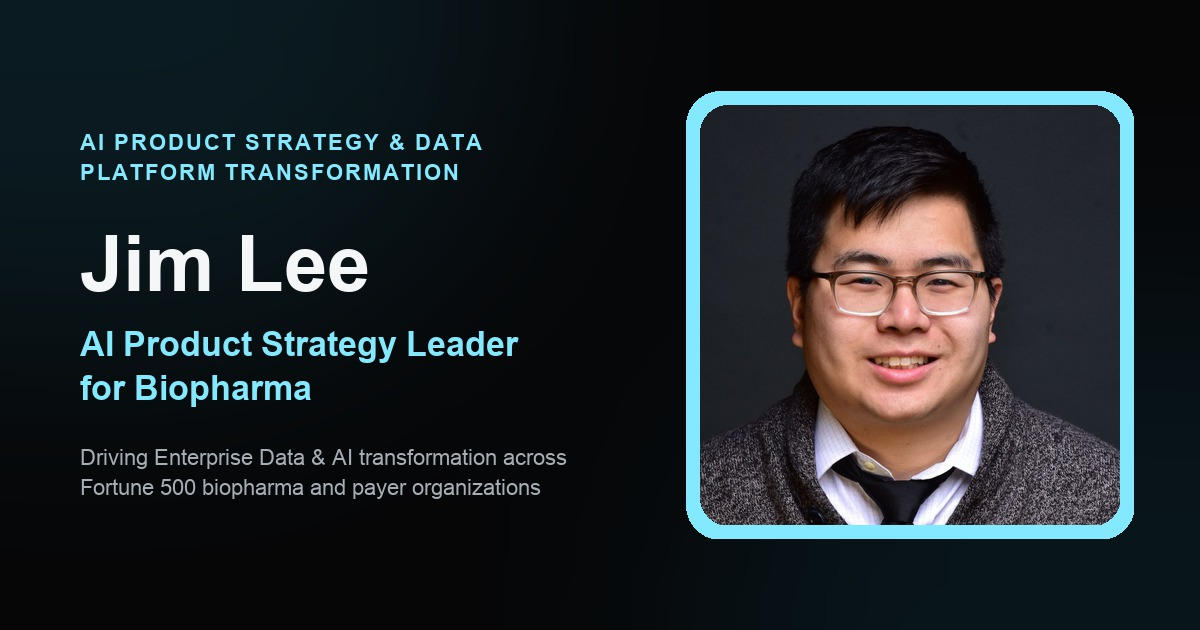
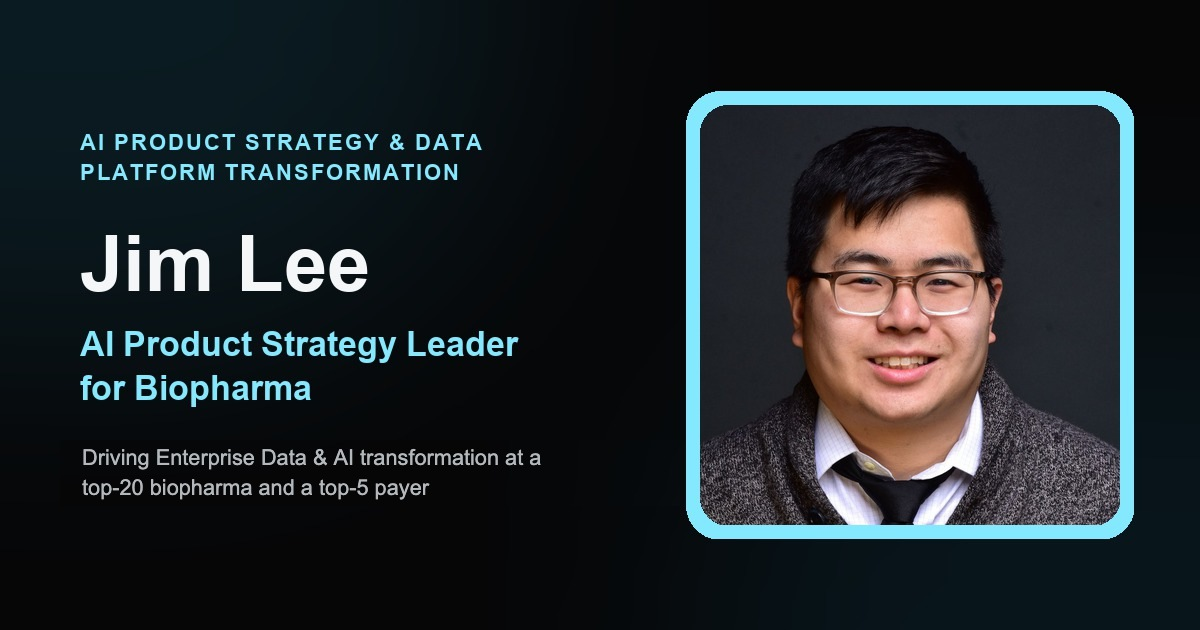
Recruiting-quality pass: accuracy, titles, accessibility, performance
Accuracy
- Hero tagline and social share card said "Fortune 500 biopharma";
  Takeda is on the Fortune Global 500, not the Fortune 500. Both now use
  the "top-20 biopharma and a top-5 payer" phrasing the Experience
  section already uses. The card was patched in place (same font, size,
  position, color), so link previews match the page.
- Removed "Zero Incidents" from the Case Study 02 diagram: the timeline
  and resume credit zero major incidents to the later Portfolio Lead
  role, not the Databricks migration.
- Timeline titles now match the downloadable resume exactly (Humana,
  Beth Israel Deaconess, Accenture), in the page and the chatbot facts.

Accessibility
- Faint gray text was 3.8:1 on cards, failing WCAG AA (4.5:1); now 5.5:1.
- Testimonials section had no heading; added one (same visual style).
- Hero contact links were 23px tall and the mobile menu button 34x28;
  both enlarged to comfortable tap targets with no visual layout change.

Performance / SEO
- Below-the-fold images lazy-load; the hero headshot loads with high
  priority.
- Added a canonical URL.

Changed region(s): [[0.0617, 0.6937, 0.4625, 0.8143]]

diff --git a/index.html b/index.html
@@ -6,6 +6,7 @@
 <title>Jim Lee — AI Product Strategy Leader</title>
 <meta name="description" content="Jim Lee — Senior AI strategy and transformation leader driving enterprise value across pharma, payer, and provider ecosystems.">
 <meta name="theme-color" content="#060607">
+<link rel="canonical" href="https://jlee1991.github.io/portfolio-site/">
 
 <meta property="og:type" content="website">
 <meta property="og:url" content="https://jlee1991.github.io/portfolio-site/">
@@ -31,7 +32,7 @@
     --cyan-dim: #4fb8d6;
     --text: #f5f6f7;
     --text-dim: #a6adb4;
-    --text-faint: #6b7178;
+    --text-faint: #858b92;
     --max: 1120px;
     --font-sans: -apple-system, BlinkMacSystemFont, "Segoe UI", Inter, Roboto, Helvetica, Arial, sans-serif;
   }
@@ -74,7 +75,7 @@
     transition:background .2s, color .2s;
   }
   .nav .cta-btn:hover{background:var(--cyan); color:#04121a;}
-  .nav-toggle{display:none; flex-direction:column; gap:5px; background:none; border:none; cursor:pointer; padding:6px;}
+  .nav-toggle{display:none; flex-direction:column; gap:5px; background:none; border:none; cursor:pointer; padding:11px 9px; margin-right:-9px;}
   .nav-toggle span{width:22px; height:2px; background:var(--text);}
   .mobile-menu{display:none;}
 
@@ -121,16 +122,16 @@
   .contact-row{display:flex; flex-direction:column; align-items:stretch; gap:12px; max-width:280px;}
   .contact-row .btn{justify-content:center;}
   .contact-card{
-    display:flex; flex-direction:column; gap:12px;
+    display:flex; flex-direction:column; gap:0;
     background:var(--bg-alt); border:1px solid var(--border); border-radius:14px;
-    padding:16px 20px;
+    padding:10px 20px;
   }
   .contact-card-title{
     font-size:0.72rem; font-weight:700; text-transform:uppercase; letter-spacing:0.1em;
     color:var(--cyan);
   }
   .contact-link{
-    display:inline-flex; align-items:center; gap:9px;
+    display:inline-flex; align-items:center; gap:9px; padding:6px 0;
     color:var(--text-dim); font-size:0.9rem; font-weight:600; transition:color .2s;
     white-space:nowrap;
   }
@@ -597,7 +598,7 @@
     <div>
       <span class="eyebrow">AI Product Strategy &amp; Data Platform Transformation</span>
       <h1><span class="name">Jim Lee</span><span class="role">AI Product Strategy Leader for Biopharma</span></h1>
-      <p class="tagline">Driving Enterprise Data &amp; AI transformation and adoption across Fortune 500 biopharma and payer organizations — delivering scalable platforms and measurable business impact.</p>
+      <p class="tagline">Driving Enterprise Data &amp; AI transformation and adoption at a top-20 biopharma and a top-5 payer — delivering scalable platforms and measurable business impact.</p>
       <div class="contact-row">
         <a class="btn btn-solid" href="assets/Jim-Lee-Resume.pdf" download>
           <svg viewBox="0 0 24 24" fill="none" stroke="currentColor" stroke-width="1.9" stroke-linecap="round" stroke-linejoin="round" aria-hidden="true"><path d="M12 3v12"/><path d="M7 10l5 5 5-5"/><path d="M4 19h16"/></svg>
@@ -626,7 +627,7 @@
     </div>
     <div class="hero-photo">
       <div class="photo-frame-wrap">
-        <div class="frame"><img src="assets/headshot.jpg" alt="Jim Lee headshot"></div>
+        <div class="frame"><img fetchpriority="high" src="assets/headshot.jpg" alt="Jim Lee headshot"></div>
         <div class="badge"><span class="num">$30M+</span><span class="lbl">AI Platform Scaled</span></div>
       </div>
       <p class="hero-photo-caption">Open to senior AI strategy leadership roles — healthcare or life sciences.</p>
@@ -675,7 +676,7 @@
           <p><span class="qmark">&ldquo;</span>I've seen healthcare across multiple points of care, from community health centers serving the homeless to Medicare patients navigating the hospital system. It's no accident I've spent over a decade building solutions in this space.</p>
           <p>The real value of healthcare AI isn't in the model — it's in improving patient outcomes by turning fragmented data into timely, actionable decisions across the care journey.<span class="qmark">&rdquo;</span></p>
           <div class="quote-author">
-            <span class="quote-avatar"><img src="assets/headshot2.jpg" alt="Jim Lee"></span>
+            <span class="quote-avatar"><img loading="lazy" decoding="async" src="assets/headshot2.jpg" alt="Jim Lee"></span>
             <div>
               <strong>Jim Lee</strong>
               <span>AI Product Strategy Leader</span>
@@ -707,7 +708,7 @@
         <p>Directed enterprise data and AI platform strategy across 8 business units, growing monthly active users from ~900 to ~2,700, leading a 20-person cross-functional team, and growing platform investment from a ~$1M pilot to a $30M+ three-year agreement.</p>
       </div>
       <div class="timeline-item">
-        <div class="role">Data Scientist</div>
+        <div class="role">Data Scientist, Cognitive/Machine Learning</div>
         <div class="company">Humana</div>
         <div class="dates">Dec 2019 – May 2022</div>
         <p>Built predictive models and Power BI dashboards to improve member experience and reduce CMS complaints, using claims and survey data across ~75K members to identify cost-saving intervention points.</p>
@@ -725,13 +726,13 @@
         <p>Implemented a population health analytics platform, integrating EHR data (Epic, NextGen, eCW) and partnering with clinical and administrative stakeholders to drive adoption and reporting.</p>
       </div>
       <div class="timeline-item">
-        <div class="role">Data Analyst</div>
+        <div class="role">Data Analyst, Care Coordination Strategy</div>
         <div class="company">Beth Israel Deaconess Medical Center</div>
         <div class="dates">Sep 2014 – Oct 2016</div>
         <p>Designed a referral tracking system and reporting tools, delivering analytics to executive leadership (CEO, COO, CMO) that improved patient retention and reduced out-of-network leakage.</p>
       </div>
       <div class="timeline-item">
-        <div class="role">Senior Analyst, Consulting</div>
+        <div class="role">Senior Analyst, Technology Consulting</div>
         <div class="company">Accenture</div>
         <div class="dates">Aug 2012 – Jul 2014</div>
         <p>Automated deployment and release processes for large-scale government and financial-sector systems, improving operational efficiency and scalability.</p>
@@ -923,7 +924,6 @@
                 <li>Databricks SaaS Migration</li>
                 <li>AWS S3 Optimization</li>
                 <li>Governance (Security / Tagging)</li>
-                <li>Zero Incidents</li>
               </ul>
             </div>
           </div>
@@ -1110,13 +1110,13 @@
 <section id="testimonials">
   <div class="wrap">
     <div class="section-head">
-      <p class="sub-head">What Colleagues Say</p>
+      <h2 class="sub-head">What Colleagues Say</h2>
     </div>
     <div class="testimonial-grid">
       <div class="testimonial-card">
         <p><span class="qmark">&ldquo;</span>Jim played an important role in bringing structure and alignment to a broad and evolving portfolio. He partnered effectively with platform and business stakeholders to prioritize initiatives, manage demand, and keep teams focused on high-impact outcomes. What stands out about Jim is his collaborative style and positive attitude — he approaches challenges with a calm, solutions-oriented mindset and consistently contributes as a strong team player.<span class="qmark">&rdquo;</span></p>
         <div class="testimonial-author">
-          <span class="testimonial-avatar"><img src="assets/testimonials/shyam.jpg" alt="Shyam J Dadala"></span>
+          <span class="testimonial-avatar"><img loading="lazy" decoding="async" src="assets/testimonials/shyam.jpg" alt="Shyam J Dadala"></span>
           <div>
             <strong><a href="https://www.linkedin.com/in/jayanthz/" target="_blank" rel="noopener noreferrer">Shyam J Dadala (Jai)</a></strong>
             <span>Data, Digital &amp; Technology Leader — Takeda</span>
@@ -1126,7 +1126,7 @@
       <div class="testimonial-card">
         <p><span class="qmark">&ldquo;</span>Jim is one of those rare leaders who combines deep technical credibility with the cross-functional instincts needed to actually move the needle at enterprise scale. He didn't just manage infrastructure — he helped shape the platform's operating model and roadmap. He is exactly the kind of manager you want leading a data platform function. I recommend him without reservation.<span class="qmark">&rdquo;</span></p>
         <div class="testimonial-author">
-          <span class="testimonial-avatar"><img src="assets/testimonials/blake.jpg" alt="Blake Xiao"></span>
+          <span class="testimonial-avatar"><img loading="lazy" decoding="async" src="assets/testimonials/blake.jpg" alt="Blake Xiao"></span>
           <div>
             <strong><a href="https://www.linkedin.com/in/blake-xiao-958948/" target="_blank" rel="noopener noreferrer">Blake Xiao</a></strong>
             <span>Data &amp; AI Architect, Eli Lilly — formerly Takeda</span>
@@ -1144,12 +1144,12 @@
       <h2>Experience across leading healthcare &amp; consulting organizations</h2>
     </div>
     <div class="logo-strip">
-      <a href="https://www.humana.com" target="_blank" rel="noopener noreferrer" aria-label="Humana website"><img src="assets/logos/humana.jpg" alt="Humana"></a>
-      <a href="https://www.takeda.com" target="_blank" rel="noopener noreferrer" aria-label="Takeda website"><img src="assets/logos/takeda.svg" alt="Takeda"></a>
+      <a href="https://www.humana.com" target="_blank" rel="noopener noreferrer" aria-label="Humana website"><img loading="lazy" decoding="async" src="assets/logos/humana.jpg" alt="Humana"></a>
+      <a href="https://www.takeda.com" target="_blank" rel="noopener noreferrer" aria-label="Takeda website"><img loading="lazy" decoding="async" src="assets/logos/takeda.svg" alt="Takeda"></a>
       <a href="https://www.accenture.com" target="_blank" rel="noopener noreferrer" aria-label="Accenture website"><span class="wordmark wordmark--sans wordmark--accent" aria-hidden="true">accenture</span></a>
-      <a href="https://www.bidmc.org" target="_blank" rel="noopener noreferrer" aria-label="Beth Israel Deaconess Medical Center website"><img src="assets/logos/beth-israel-lahey.png" alt="Beth Israel Deaconess Medical Center"></a>
-      <a href="https://www.azarahealthcare.com" target="_blank" rel="noopener noreferrer" aria-label="Azara Healthcare website"><img src="assets/logos/azara.jpg" alt="Azara Healthcare"></a>
-      <span class="logo-nolink"><img src="assets/logos/par8o.png" alt="par8o"></span>
+      <a href="https://www.bidmc.org" target="_blank" rel="noopener noreferrer" aria-label="Beth Israel Deaconess Medical Center website"><img loading="lazy" decoding="async" src="assets/logos/beth-israel-lahey.png" alt="Beth Israel Deaconess Medical Center"></a>
+      <a href="https://www.azarahealthcare.com" target="_blank" rel="noopener noreferrer" aria-label="Azara Healthcare website"><img loading="lazy" decoding="async" src="assets/logos/azara.jpg" alt="Azara Healthcare"></a>
+      <span class="logo-nolink"><img loading="lazy" decoding="async" src="assets/logos/par8o.png" alt="par8o"></span>
     </div>
   </div>
 </section>

diff --git a/worker/src/facts.js b/worker/src/facts.js
@@ -17,7 +17,7 @@ CAREER TIMELINE
   data and AI platform strategy across 8 business units, growing monthly active users from ~900 to
   ~2,700, leading a 20-person cross-functional team, and growing platform investment from a ~$1M
   pilot to a $30M+ three-year agreement.
-- Data Scientist, Humana (Dec 2019 - May 2022): Built predictive models and Power BI dashboards
+- Data Scientist, Cognitive/Machine Learning, Humana (Dec 2019 - May 2022): Built predictive models and Power BI dashboards
   to improve member experience and reduce CMS complaints, using claims and survey data across
   ~75K members to identify cost-saving intervention points.
 - Product Manager, Integrations, par8o (Jan 2018 - Oct 2018): Led product development for
@@ -25,10 +25,10 @@ CAREER TIMELINE
   health systems.
 - Implementation Specialist, Azara Healthcare (Oct 2016 - Jan 2018): Implemented a population
   health analytics platform, integrating EHR data (Epic, NextGen, eCW).
-- Data Analyst, Beth Israel Deaconess Medical Center (Sep 2014 - Oct 2016): Designed a referral
+- Data Analyst, Care Coordination Strategy, Beth Israel Deaconess Medical Center (Sep 2014 - Oct 2016): Designed a referral
   tracking system and reporting tools for executive leadership (CEO, COO, CMO), improving
   patient retention and reducing out-of-network leakage.
-- Senior Analyst, Consulting, Accenture (Aug 2012 - Jul 2014): Automated deployment and release
+- Senior Analyst, Technology Consulting, Accenture (Aug 2012 - Jul 2014): Automated deployment and release
   processes for large-scale government and financial-sector systems.
 
 EDUCATION
